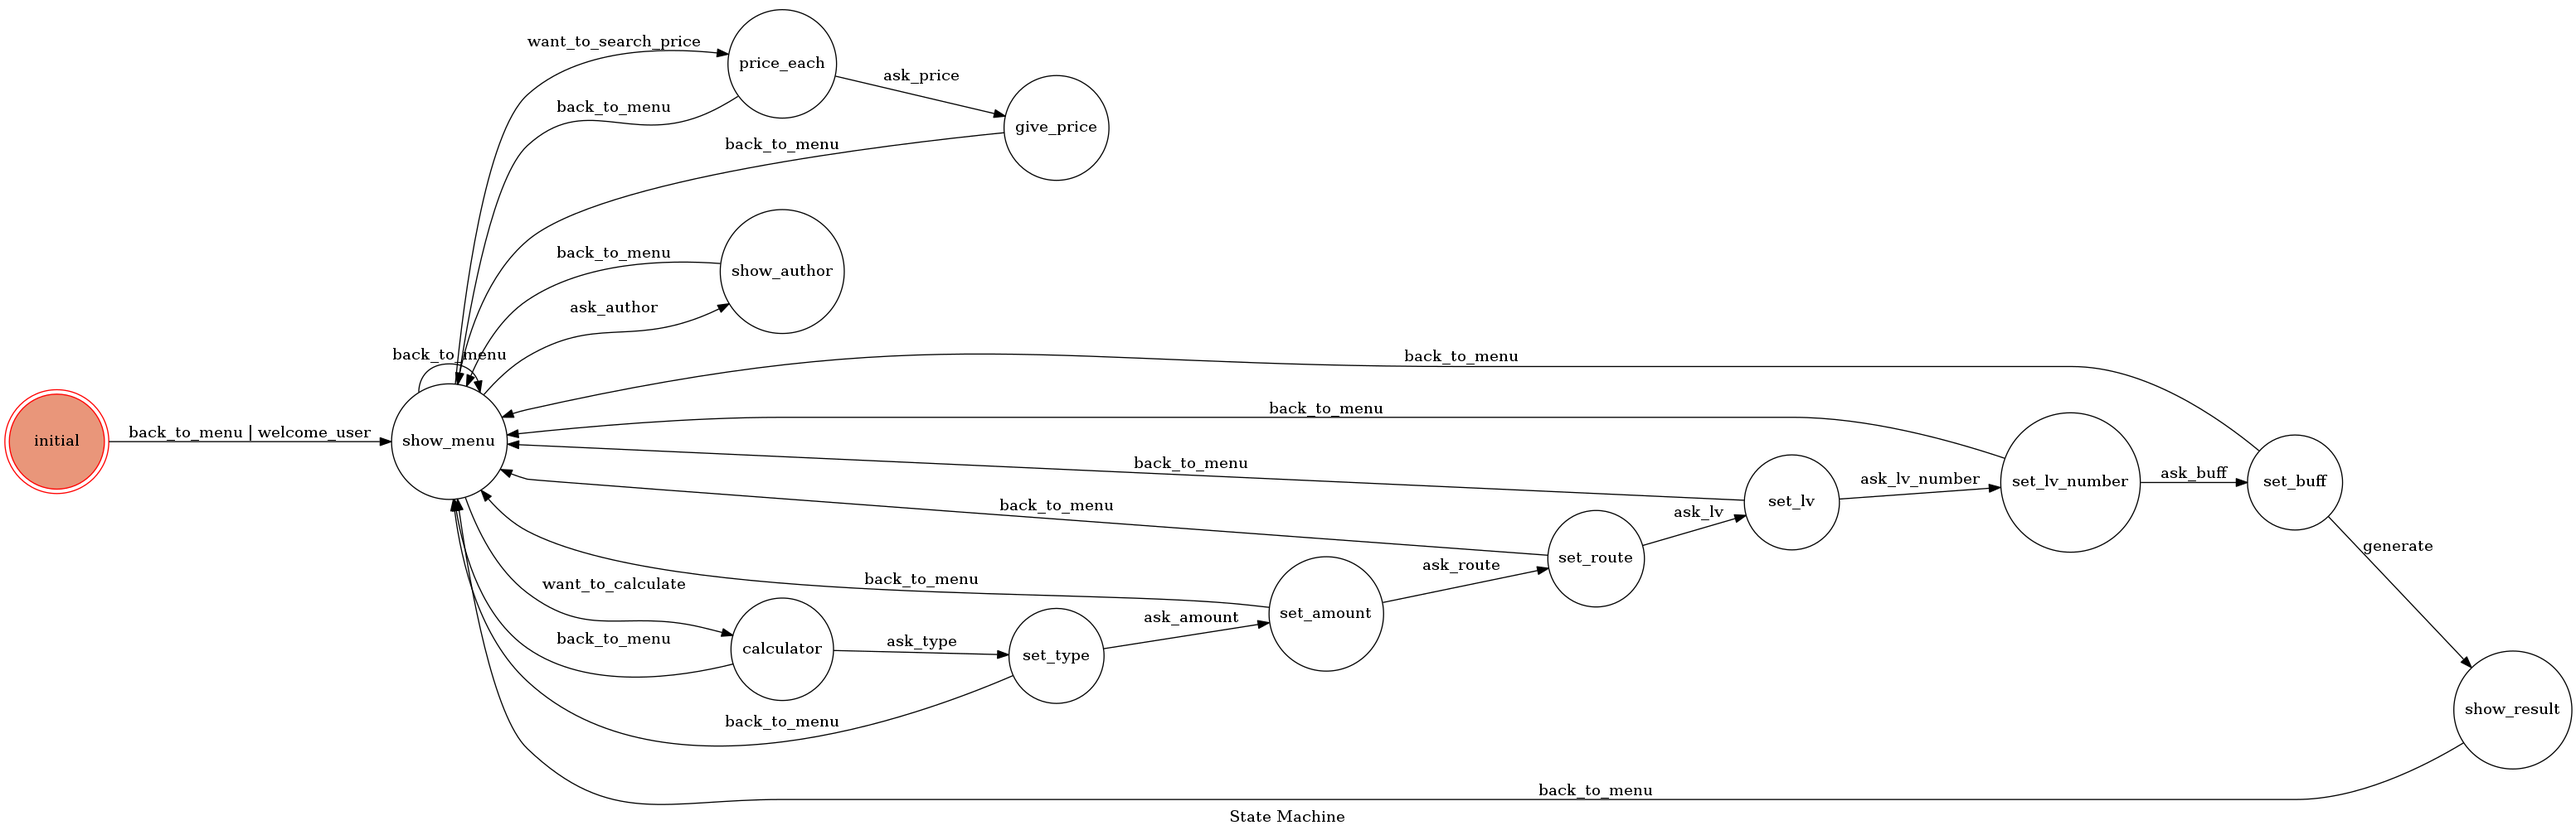
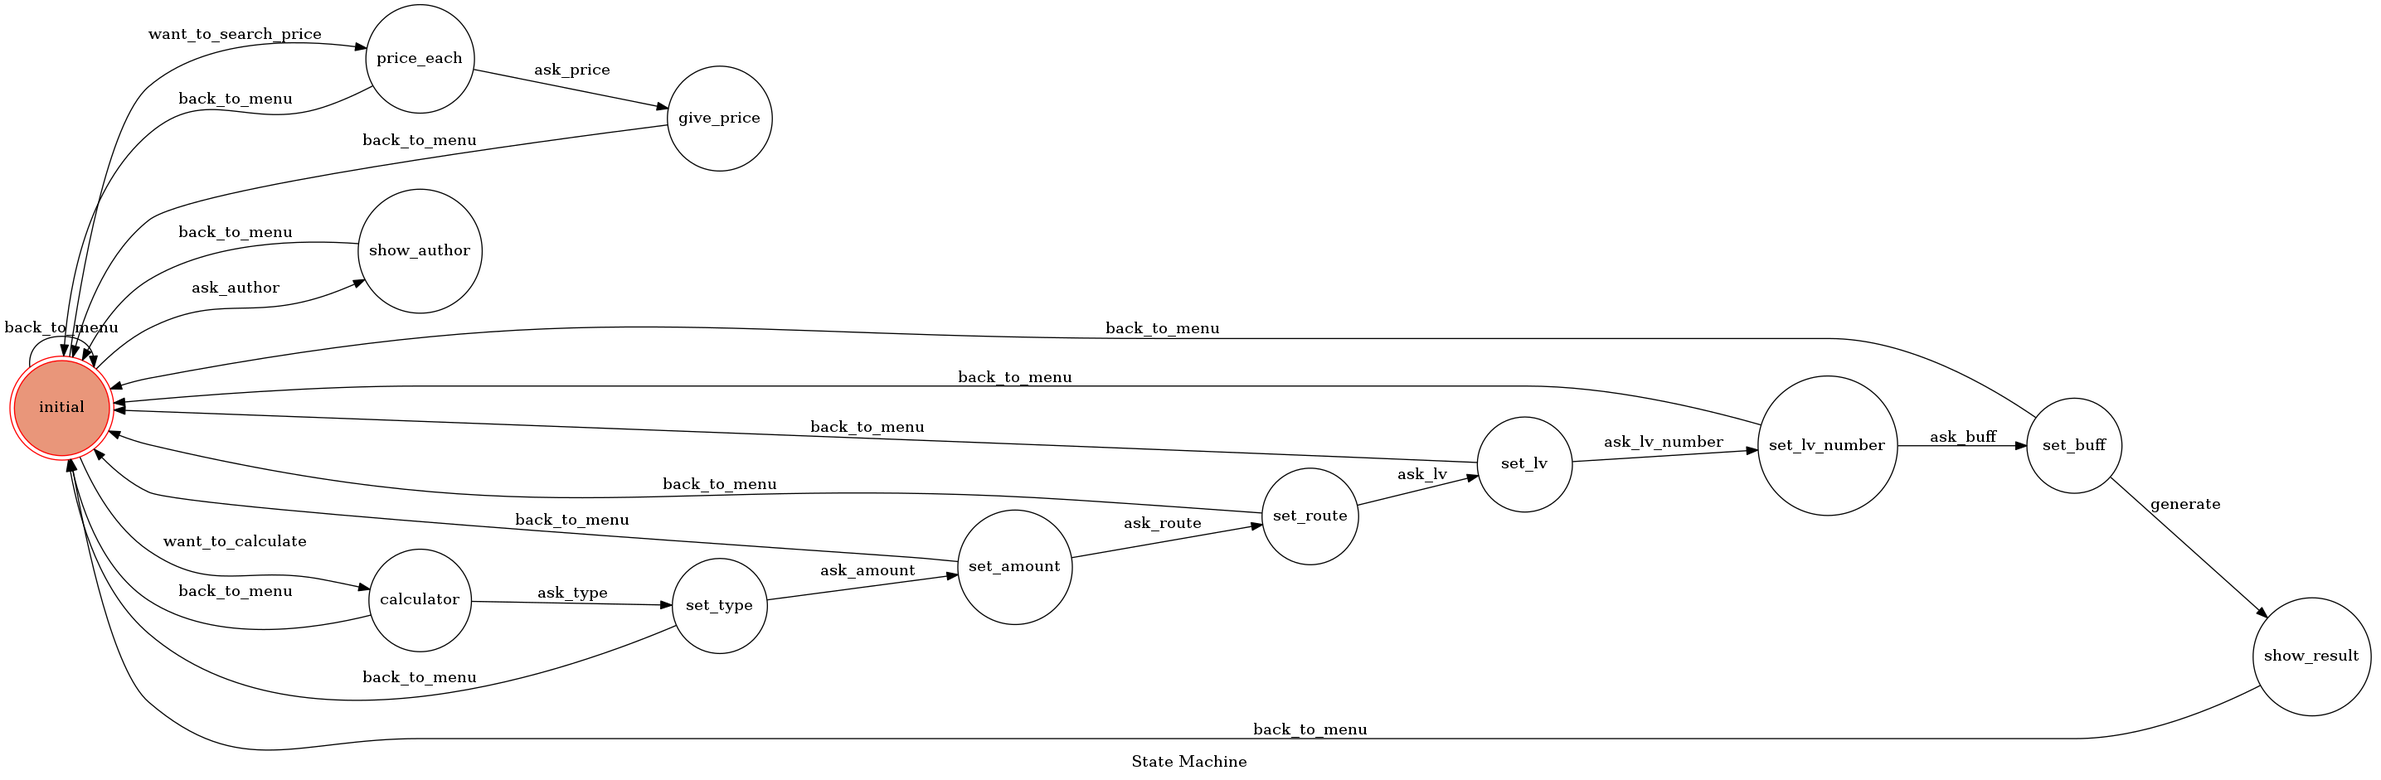
fix problem that 3 transisions were not starting from initial

diff --git a/main.py b/main.py
@@ -46,28 +46,28 @@ crate_type = InlineKeyboardMarkup(inline_keyboard=[
        [InlineKeyboardButton(text='Brass Ingot Crate', callback_data='brass')],
        [InlineKeyboardButton(text='Titanium Ingot Crate', callback_data='titanium')],
        [InlineKeyboardButton(text='Calpheon Timber Crate', callback_data='calp')],
-       [InlineKeyboardButton(text='Back to menu', callback_data='menu')]])
+       [InlineKeyboardButton(text='Back to initial', callback_data='menu')]])
 route = InlineKeyboardMarkup(inline_keyboard=[
        [InlineKeyboardButton(text='Grana -> Valencia', callback_data='grana')],
        [InlineKeyboardButton(text='Epheria -> Valencia', callback_data='epheria')],
        [InlineKeyboardButton(text='Trent -> Valencia', callback_data='trent')],
-       [InlineKeyboardButton(text='Back to menu', callback_data='menu')]])
+       [InlineKeyboardButton(text='Back to initial', callback_data='menu')]])
 level = InlineKeyboardMarkup(inline_keyboard=[
        [InlineKeyboardButton(text='Artisan', callback_data='artisan')],
        [InlineKeyboardButton(text='Master', callback_data='master')],
-       [InlineKeyboardButton(text='Back to menu', callback_data='menu')]])
+       [InlineKeyboardButton(text='Back to initial', callback_data='menu')]])
 buff = InlineKeyboardMarkup(inline_keyboard=[
        [InlineKeyboardButton(text='Yes', callback_data='yes')],
        [InlineKeyboardButton(text='No', callback_data='no')],
-       [InlineKeyboardButton(text='Back to menu', callback_data='menu')]])
+       [InlineKeyboardButton(text='Back to initial', callback_data='menu')]])
 
 class assistant(object):
-    def show_menu(self, chat_id):
-        global tele
-        print('@@@@@@@@@@@@@@@@@@@@@@show_menu')
-        tele.sendPhoto(chat_id,open('./bdo.jpg','rb'))
-        tele.sendMessage(chat_id, 'Hello, please select which trading service you need', reply_markup=trade)
-        return 'OK'
+    # def show_menu(self, chat_id):
+    #     global tele
+    #     print('@@@@@@@@@@@@@@@@@@@@@@show_menu')
+    #     tele.sendPhoto(chat_id,open('./bdo.jpg','rb'))
+    #     tele.sendMessage(chat_id, 'Hello, please select which trading service you need', reply_markup=trade)
+    #     return 'OK'
     def price_each(self, chat_id):
         global tele
         print('@@@@@@@@@@@@@@@@@@@@@@price_each')
@@ -167,6 +167,7 @@ class assistant(object):
         global trade_amount
         global total
         total = (base + route_base + lv_base + buff_base) * trade_amount
+        tele.sendPhoto(chat_id,open('./bdo.jpg','rb'))
         tele.sendMessage(chat_id, 'Base Price : ' + str(base))
         tele.sendMessage(chat_id, 'Distance Bonus : ' + str(route_base))
         tele.sendMessage(chat_id, 'Bargain Price : ' + str(lv_base))
@@ -174,8 +175,7 @@ class assistant(object):
         tele.sendMessage(chat_id, 'Total Profit : ' + str(total))
         return 'OK'
 
-states = ['initial', {'name':'show_menu', 'on_enter' : ['show_menu']},
-                     {'name':'price_each', 'on_enter' : ['price_each']},
+states = ['initial', {'name':'price_each', 'on_enter' : ['price_each']},
                      {'name':'calculator', 'on_enter' : ['calculator']},
                      {'name':'give_price', 'on_enter' : ['give_price']},
                      {'name':'set_type', 'on_enter': ['set_type']},
@@ -187,13 +187,12 @@ states = ['initial', {'name':'show_menu', 'on_enter' : ['show_menu']},
                      {'name':'set_buff', 'on_enter':['set_buff']},
                      {'name':'show_result', 'on_enter':['show_result']},]
 
-transitions = [['welcome_user', 'initial', 'show_menu'],
-               ['want_to_search_price', 'show_menu', 'price_each'],
-               ['want_to_calculate', 'show_menu', 'calculator'],
-               ['back_to_menu', '*', 'show_menu'],
+transitions = [['want_to_search_price', 'initial', 'price_each'],
+               ['want_to_calculate', 'initial', 'calculator'],
+               ['back_to_menu', '*', 'initial'],
                ['ask_price', 'price_each', 'give_price'],
                ['ask_type', 'calculator', 'set_type'],
-               ['ask_author', 'show_menu', 'show_author'],
+               ['ask_author', 'initial', 'show_author'],
                ['ask_amount', 'set_type', 'set_amount'],
                ['ask_route', 'set_amount', 'set_route'],
                ['ask_lv', 'set_route', 'set_lv'],
@@ -227,23 +226,27 @@ def bot():
             text = message['text']
             if message['message_id'] > message_id:
                 message_id = message['message_id']
-                if text == '/start':
-                    black_spirit.welcome_user(chat_id)
+                if text == '/calculate':
+                    black_spirit.want_to_calculate(chat_id)
+                elif text == '/author':
+                    black_spirit.ask_author(chat_id)
+                    black_spirit.back_to_menu(chat_id)
+                elif text == '/each':
+                    black_spirit.want_to_search_price(chat_id)
                 elif black_spirit.state == 'set_type':
                     black_spirit.ask_amount(chat_id, text)
                     tele.sendMessage(chat_id, 'Which route are you going to take ?', reply_markup=route)
                 elif black_spirit.state == 'set_lv':
                     black_spirit.ask_lv_number(chat_id, text)
+                else:
+                    tele.sendMessage(chat_id, 'Only /calculate /author /each can be typed in initial')
+
 
         callback_query = userJson.get('callback_query')
         if callback_query:
             chat_id = callback_query['from']['id']
             data = callback_query['data']
-            if data == 'price':
-                black_spirit.want_to_search_price(chat_id)
-            elif data == 'calculate':
-                black_spirit.want_to_calculate(chat_id)
-            elif data == 'menu':
+            if data == 'menu':
                 black_spirit.back_to_menu(chat_id)
             elif black_spirit.state == 'price_each':
                 black_spirit.ask_price(chat_id, data)
@@ -251,9 +254,6 @@ def bot():
             elif black_spirit.state == 'calculator':
                 black_spirit.ask_type(chat_id, data)
                 # tele.sendMessage(chat_id, str(base))
-            elif data == 'author':
-                black_spirit.ask_author(chat_id)
-                black_spirit.back_to_menu(chat_id)
             elif black_spirit.state == 'set_amount':
                 black_spirit.ask_route(chat_id, data)
                 # tele.sendMessage(chat_id, str(route_base))

diff --git a/README.md b/README.md
@@ -7,9 +7,10 @@
 ![](https://i.imgur.com/peRnVKN.png)
 
 **Example on how to get the same result as the online simulator:**
-![](https://i.imgur.com/ewFYplj.png)
+![](https://i.imgur.com/BeLuJlN.png)
+
 
 
 
 ## FSM
-![](https://i.imgur.com/OWFB13O.png)
+![](https://i.imgur.com/vzxbJt8.png)
